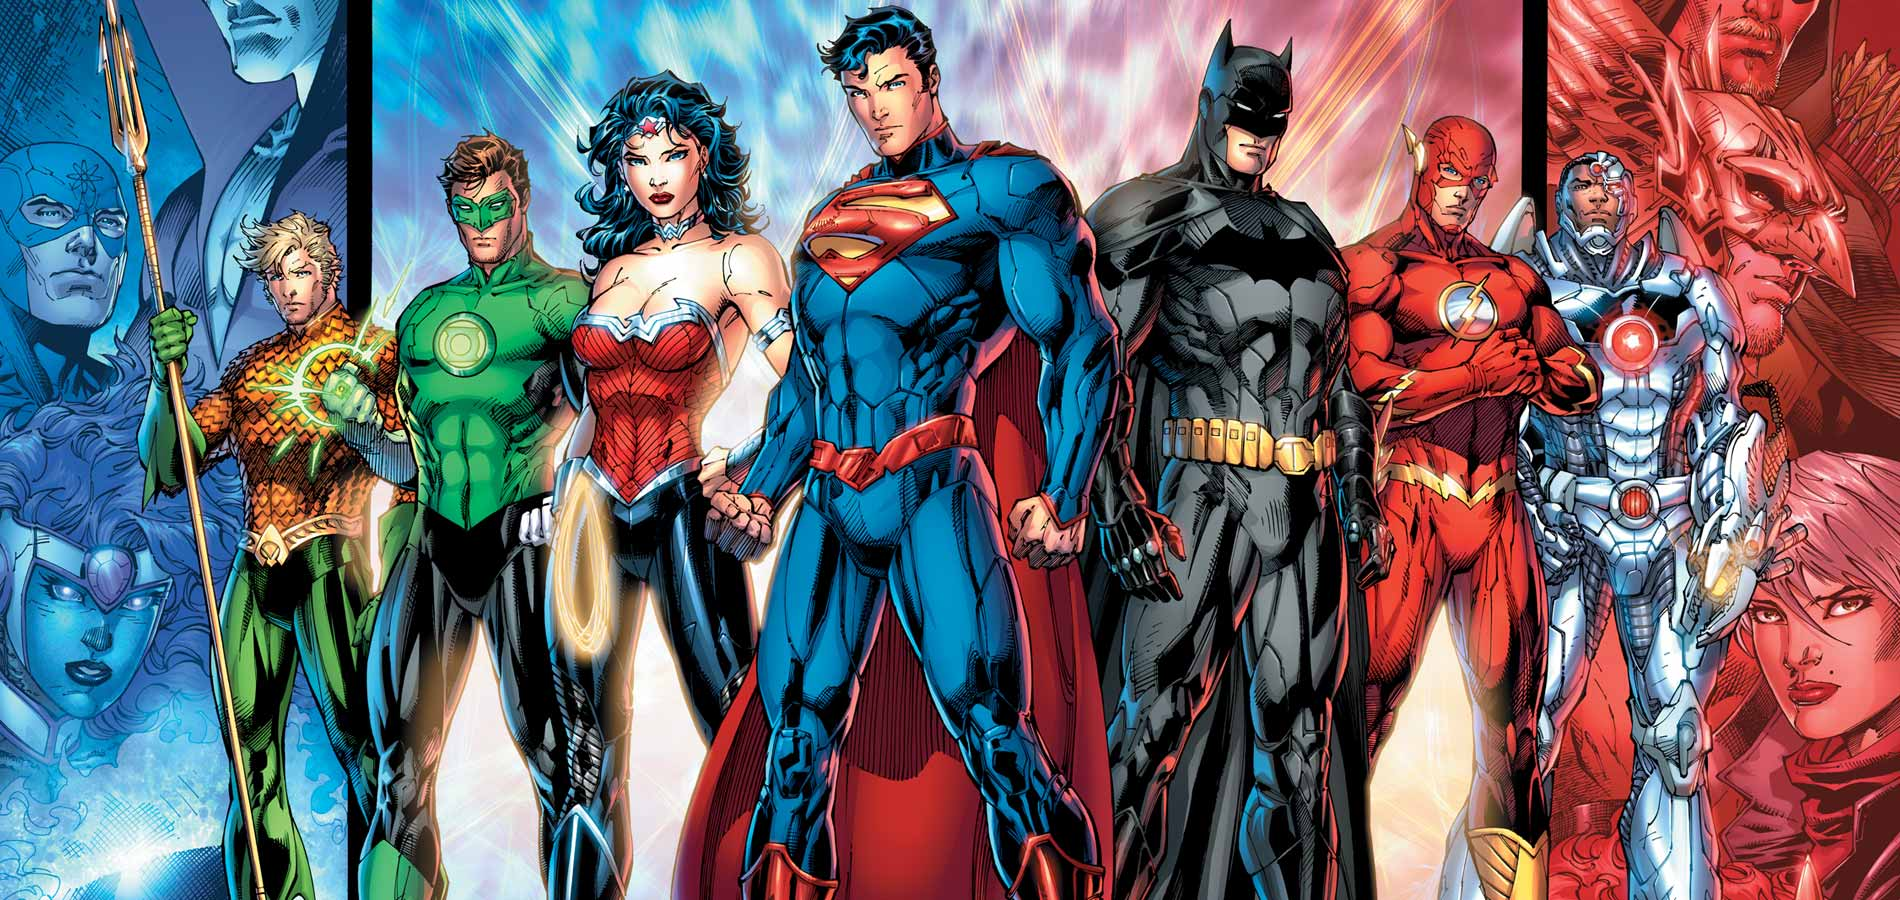
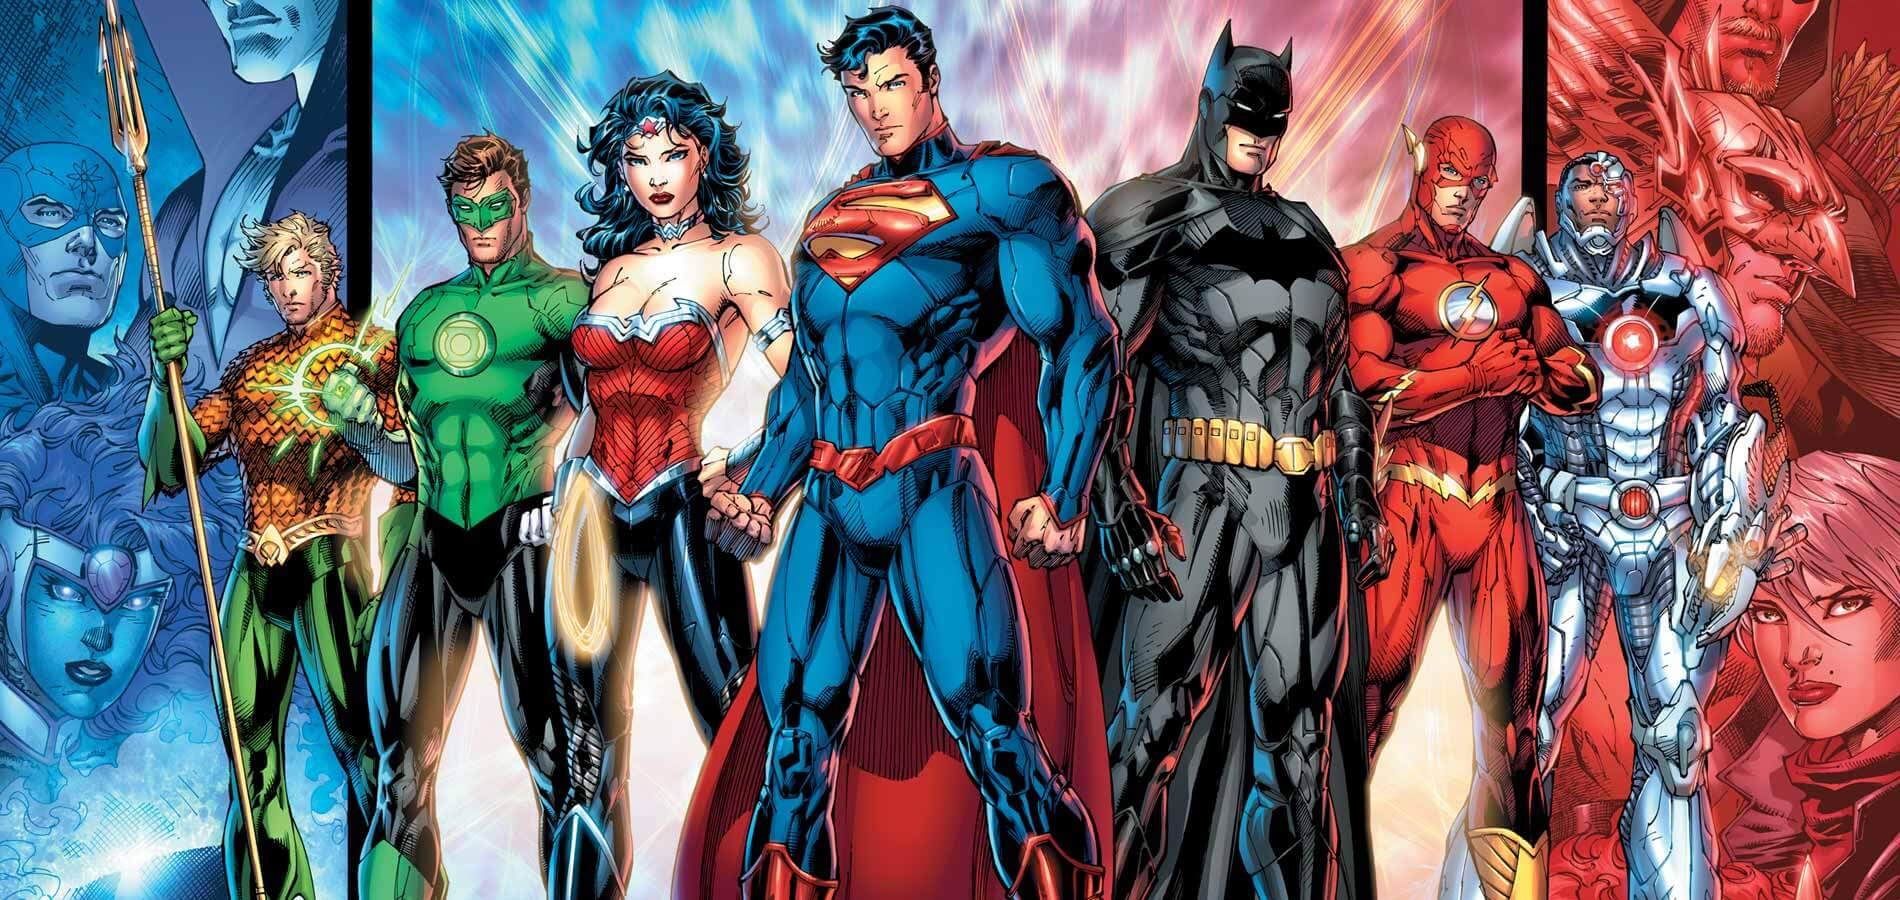
image and small text update

Changed region(s): [[0.3416, 0.1244, 0.3726, 0.1556], [0.1553, 0.3733, 0.1863, 0.4044]]

diff --git a/Arkman_asylum.html b/Arkman_asylum.html
@@ -29,8 +29,7 @@
     </div>
 
     <div class="header">
-         <img src="Resources/Images/d7xnclupr6y11.jpg"/>
-    
+         <img src="Resources/Images/d7xnclupr6y11.jpg" style="width: 100%; height: auto;"/>
     </div>
 
     <div class="welcome">
@@ -117,14 +116,14 @@
          <hr>
          <section class="button">
          
-         <input type="submit" value="Submit">
+         <input type="submit" value="Submit" style="cursor: pointer;">
         </section>
        <hr>
     </form>
     </div>
    <footer>
        <p class="p-footer">Arkham Asylum is sponsered by your favorite Super Heros</p>
-       <img src="Resources/Images/heroes.jpg"/>
+       <img src="Resources/Images/heroes.jpg" style="width: 100%; height: auto;"/>
    </footer>
 </body>
 </html>

diff --git a/index.html b/index.html
@@ -119,6 +119,7 @@
                     <div class="row mb-1">
                         <p>This was the first project that I did on Codecademy. I was given the specs and had to re-create the website according to them. 
                             The project was about using flexbox to create the layout, I used Visual Studio Code.</p>
+                        <p class="opacity-50">Not mobile friendly.</p>
                     </div>
                     <a class="btn btn-green mb-4" href="tea_cozy.html" role="button">View Project</a>
                     <img class="d-md-block d-none" src="Resources/Images/dot_icon.png"/>
